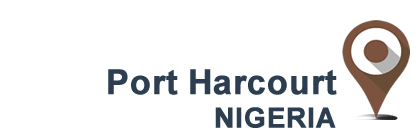
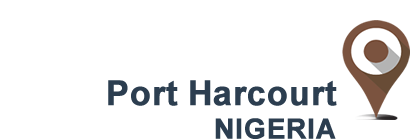
improving on small screen display of pins

Changed region(s): [[0.2476, 0.4857, 0.8048, 1.0]]

diff --git a/_site/index.html b/_site/index.html
@@ -169,6 +169,13 @@ position:fixed!important;
     height:600px;
 }
 
+#map-small {
+    top:0px;
+    left:0px;
+    width:100%;
+    height:400px;
+}
+
 @media (max-width: 400px){
         #map {
             height:250px;
@@ -411,9 +418,16 @@ console.log(txt);
 
 L.mapbox.accessToken = 'pk.eyJ1IjoiaGl1IiwiYSI6InJWNGZJSzgifQ.xK1ndT3W8XL9lwVZrT6jvQ';
 
+
+if (window.innerWidth < 1200) {
+    console.log('window less than 1200px');
+    $("#map").attr("id","map-small");
+}
+
+
 if (window.innerWidth < 400) {
 
-var map = L.mapbox.map('map', '', {
+var map = L.mapbox.map('map-small', '', {
     attributionControl: {compact: true},
     zoomControl:false,
     scrollWheelZoom: false,
@@ -428,7 +442,7 @@ var map = L.mapbox.map('map', '', {
 
 } else if (window.innerWidth < 768) {
 
-var map = L.mapbox.map('map', '', {
+var map = L.mapbox.map('map-small', '', {
     attributionControl: {compact: true},
     zoomControl:false,
     scrollWheelZoom: false,
@@ -443,7 +457,7 @@ var map = L.mapbox.map('map', '', {
 
 } else if (window.innerWidth < 1200) {
 
-var map = L.mapbox.map('map', '', {
+var map = L.mapbox.map('map-small', '', {
     attributionControl: {compact: true},
     zoomControl:false,
     scrollWheelZoom: false,
@@ -676,7 +690,7 @@ var SecondaryCitiesIcon_santa_fe = L.icon({
 });
 
 var SecondaryCitiesIcon_santa_fe_small = L.icon({
-    iconUrl: "/SecondaryCities2/assets/2c_pin_santa_fe_small.png",
+    iconUrl: "/SecondaryCities2/assets/2c_pin_santa_fe.png",
     iconSize: [157.5, 52.5],
     iconAnchor: [142.5, 40],
     popupAnchor: [0, 0],
@@ -692,7 +706,7 @@ var SecondaryCitiesIcon_pemba = L.icon({
 });
 
 var SecondaryCitiesIcon_pemba_small = L.icon({
-    iconUrl: "/SecondaryCities2/assets/2c_pin_pemba_small.png",
+    iconUrl: "/SecondaryCities2/assets/2c_pin_pemba.png",
     iconSize: [157.5, 52.5],
     iconAnchor: [142.5, 40],
     popupAnchor: [0, 0],
@@ -702,18 +716,19 @@ var SecondaryCitiesIcon_pemba_small = L.icon({
 var SecondaryCitiesIcon_darkhan = L.icon({
     iconUrl: "/SecondaryCities2/assets/2c_pin_darkhan.png",
     iconSize: [210, 70],
-    iconAnchor: [190, 60],
+    iconAnchor: [20, 60],
     popupAnchor: [0, 0],
     className: "SecondaryCitiesIcon_darkhan"
 });
 
 var SecondaryCitiesIcon_darkhan_small = L.icon({
-    iconUrl: "/SecondaryCities2/assets/2c_pin_darkhan_small.png",
+    iconUrl: "/SecondaryCities2/assets/2c_pin_darkhan.png",
     iconSize: [157.5, 52.5],
-    iconAnchor: [142.5, 40],
+    iconAnchor: [15, 40],
     popupAnchor: [0, 0],
     className: "SecondaryCitiesIcon_darkhan_small"
 });
+
 
 var SecondaryCitiesIcon_indore = L.icon({
     iconUrl: "/SecondaryCities2/assets/2c_pin_indore.png",
@@ -724,7 +739,7 @@ var SecondaryCitiesIcon_indore = L.icon({
 });
 
 var SecondaryCitiesIcon_indore_small = L.icon({
-    iconUrl: "/SecondaryCities2/assets/2c_pin_indore_small.png",
+    iconUrl: "/SecondaryCities2/assets/2c_pin_indore.png",
     iconSize: [157.5, 52.5],
     iconAnchor: [142.5, 40],
     popupAnchor: [0, 0],
@@ -740,7 +755,7 @@ var SecondaryCitiesIcon_boke = L.icon({
 });
 
 var SecondaryCitiesIcon_boke_small = L.icon({
-    iconUrl: "/SecondaryCities2/assets/2c_pin_boke_small.png",
+    iconUrl: "/SecondaryCities2/assets/2c_pin_boke.png",
     iconSize: [157.5, 52.5],
     iconAnchor: [142.5, 40],
     popupAnchor: [0, 0],
@@ -862,7 +877,7 @@ if (window.innerWidth < 1200) {
 
 } 
 
-darkhanMarker.bindPopup('<img src="/SecondaryCities2/img/darkhan/darkhan_thumb_300px.jpg" class="img-popup" alt="Darkhan"></br><span class="label-span-small">Darkhan About page coming soon</span>', {offset: new L.Point(-310, 140)});
+darkhanMarker.bindPopup('<img src="/SecondaryCities2/img/darkhan/darkhan_thumb_300px.jpg" class="img-popup" alt="Darkhan"></br><span class="label-span-small">Darkhan About page coming soon</span>', {offset: new L.Point(-150, 140)});
 
 /*
 darkhanMarker.on('click', function (e) {
@@ -1620,6 +1635,9 @@ addControlPlaceholders(map);
 var info = L.control({position: 'horizontalcenter'});
 
 if (window.innerWidth < 768) {
+
+    //$(".leaflet-horizontalcenter").css({"padding-top": "380px"})
+
     info.onAdd = function (map) {
       this._div = L.DomUtil.create('div', 'info-small');
       this._div.innerHTML = '<div>Resiliency · Human Security · Emergency Preparedness</div>';

diff --git a/_includes/header_map2.html b/_includes/header_map2.html
@@ -9,6 +9,13 @@
     height:600px;
 }
 
+#map-small {
+    top:0px;
+    left:0px;
+    width:100%;
+    height:400px;
+}
+
 @media (max-width: 400px){
         #map {
             height:250px;
@@ -250,9 +257,16 @@ console.log(txt);
 
 L.mapbox.accessToken = 'pk.eyJ1IjoiaGl1IiwiYSI6InJWNGZJSzgifQ.xK1ndT3W8XL9lwVZrT6jvQ';
 
+
+if (window.innerWidth < 1200) {
+    console.log('window less than 1200px');
+    $("#map").attr("id","map-small");
+}
+
+
 if (window.innerWidth < 400) {
 
-var map = L.mapbox.map('map', '', {
+var map = L.mapbox.map('map-small', '', {
     attributionControl: {compact: true},
     zoomControl:false,
     scrollWheelZoom: false,
@@ -267,7 +281,7 @@ var map = L.mapbox.map('map', '', {
 
 } else if (window.innerWidth < 768) {
 
-var map = L.mapbox.map('map', '', {
+var map = L.mapbox.map('map-small', '', {
     attributionControl: {compact: true},
     zoomControl:false,
     scrollWheelZoom: false,
@@ -282,7 +296,7 @@ var map = L.mapbox.map('map', '', {
 
 } else if (window.innerWidth < 1200) {
 
-var map = L.mapbox.map('map', '', {
+var map = L.mapbox.map('map-small', '', {
     attributionControl: {compact: true},
     zoomControl:false,
     scrollWheelZoom: false,
@@ -515,7 +529,7 @@ var SecondaryCitiesIcon_santa_fe = L.icon({
 });
 
 var SecondaryCitiesIcon_santa_fe_small = L.icon({
-    iconUrl: "{{ site.baseurl }}/assets/2c_pin_santa_fe_small.png",
+    iconUrl: "{{ site.baseurl }}/assets/2c_pin_santa_fe.png",
     iconSize: [157.5, 52.5],
     iconAnchor: [142.5, 40],
     popupAnchor: [0, 0],
@@ -531,7 +545,7 @@ var SecondaryCitiesIcon_pemba = L.icon({
 });
 
 var SecondaryCitiesIcon_pemba_small = L.icon({
-    iconUrl: "{{ site.baseurl }}/assets/2c_pin_pemba_small.png",
+    iconUrl: "{{ site.baseurl }}/assets/2c_pin_pemba.png",
     iconSize: [157.5, 52.5],
     iconAnchor: [142.5, 40],
     popupAnchor: [0, 0],
@@ -541,18 +555,19 @@ var SecondaryCitiesIcon_pemba_small = L.icon({
 var SecondaryCitiesIcon_darkhan = L.icon({
     iconUrl: "{{ site.baseurl }}/assets/2c_pin_darkhan.png",
     iconSize: [210, 70],
-    iconAnchor: [190, 60],
+    iconAnchor: [20, 60],
     popupAnchor: [0, 0],
     className: "SecondaryCitiesIcon_darkhan"
 });
 
 var SecondaryCitiesIcon_darkhan_small = L.icon({
-    iconUrl: "{{ site.baseurl }}/assets/2c_pin_darkhan_small.png",
+    iconUrl: "{{ site.baseurl }}/assets/2c_pin_darkhan.png",
     iconSize: [157.5, 52.5],
-    iconAnchor: [142.5, 40],
+    iconAnchor: [15, 40],
     popupAnchor: [0, 0],
     className: "SecondaryCitiesIcon_darkhan_small"
 });
+
 
 var SecondaryCitiesIcon_indore = L.icon({
     iconUrl: "{{ site.baseurl }}/assets/2c_pin_indore.png",
@@ -563,7 +578,7 @@ var SecondaryCitiesIcon_indore = L.icon({
 });
 
 var SecondaryCitiesIcon_indore_small = L.icon({
-    iconUrl: "{{ site.baseurl }}/assets/2c_pin_indore_small.png",
+    iconUrl: "{{ site.baseurl }}/assets/2c_pin_indore.png",
     iconSize: [157.5, 52.5],
     iconAnchor: [142.5, 40],
     popupAnchor: [0, 0],
@@ -579,7 +594,7 @@ var SecondaryCitiesIcon_boke = L.icon({
 });
 
 var SecondaryCitiesIcon_boke_small = L.icon({
-    iconUrl: "{{ site.baseurl }}/assets/2c_pin_boke_small.png",
+    iconUrl: "{{ site.baseurl }}/assets/2c_pin_boke.png",
     iconSize: [157.5, 52.5],
     iconAnchor: [142.5, 40],
     popupAnchor: [0, 0],
@@ -701,7 +716,7 @@ if (window.innerWidth < 1200) {
 
 } 
 
-darkhanMarker.bindPopup('<img src="{{ site.baseurl }}/img/darkhan/darkhan_thumb_300px.jpg" class="img-popup" alt="Darkhan"></br><span class="label-span-small">Darkhan About page coming soon</span>', {offset: new L.Point(-310, 140)});
+darkhanMarker.bindPopup('<img src="{{ site.baseurl }}/img/darkhan/darkhan_thumb_300px.jpg" class="img-popup" alt="Darkhan"></br><span class="label-span-small">Darkhan About page coming soon</span>', {offset: new L.Point(-150, 140)});
 
 /*
 darkhanMarker.on('click', function (e) {
@@ -1459,6 +1474,9 @@ addControlPlaceholders(map);
 var info = L.control({position: 'horizontalcenter'});
 
 if (window.innerWidth < 768) {
+
+    //$(".leaflet-horizontalcenter").css({"padding-top": "380px"})
+
     info.onAdd = function (map) {
       this._div = L.DomUtil.create('div', 'info-small');
       this._div.innerHTML = '<div>Resiliency · Human Security · Emergency Preparedness</div>';
